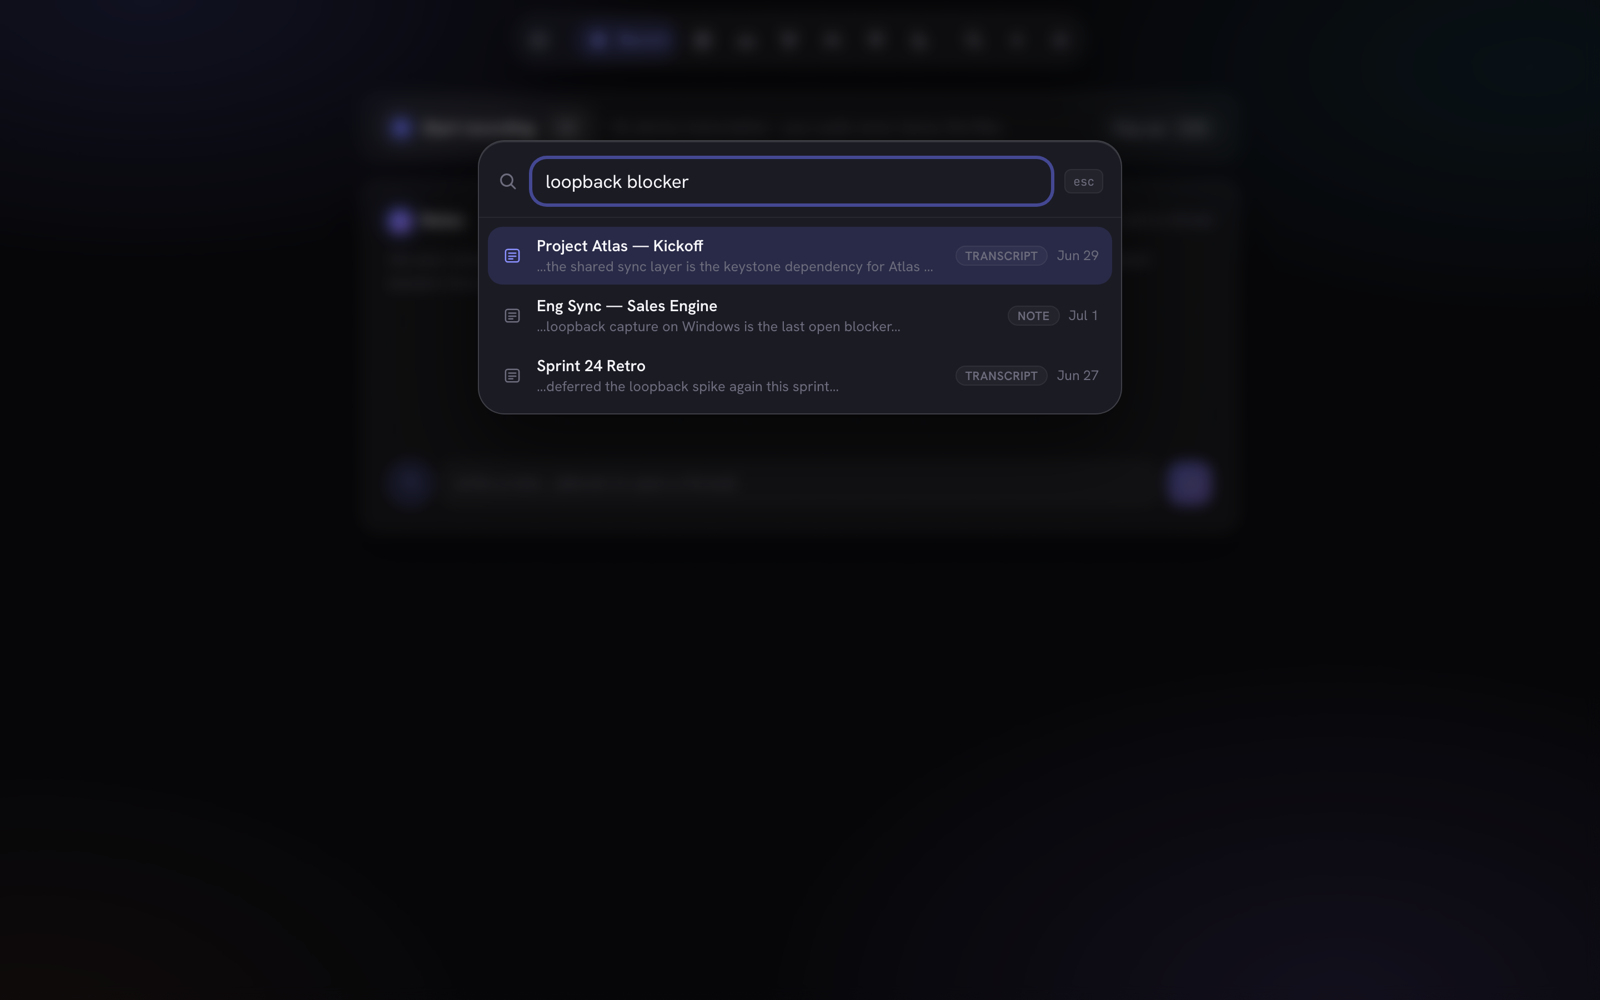
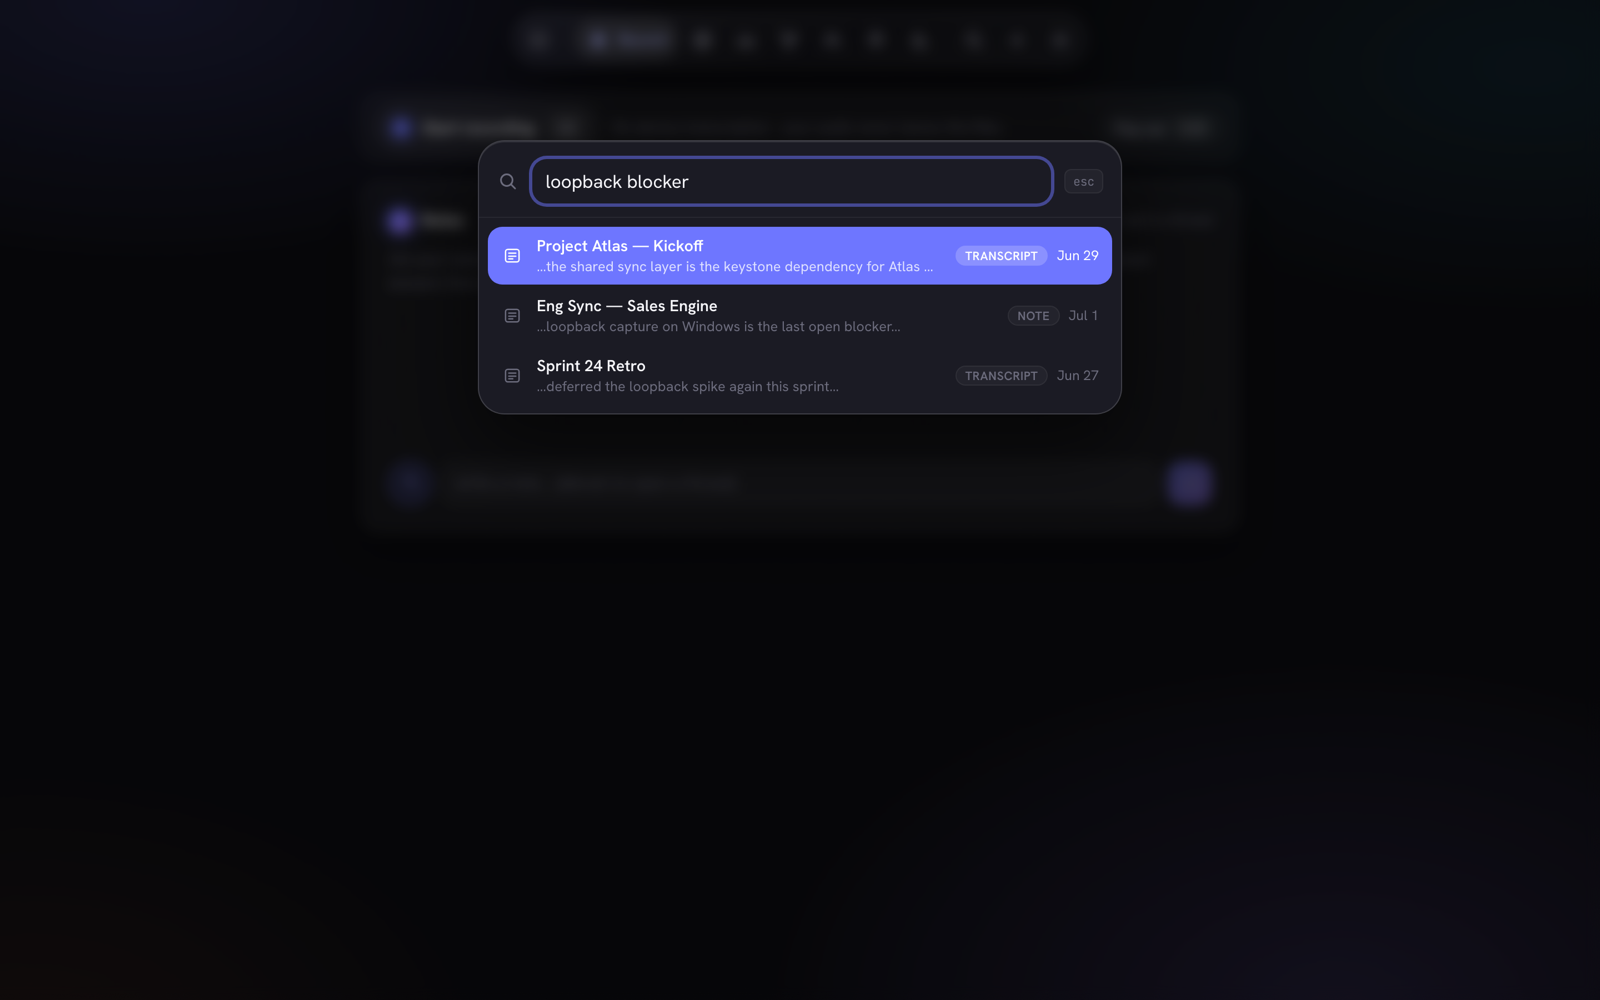
style(shell): neutral liquid-glass chrome — de-accent the active states
Real macOS Liquid Glass is neutral: dedicated --shell-glass-* tokens (gradient
fill + specular top edge + shaded bottom + 44px blur @ 180% saturation, with
light-theme milk-glass overrides). Active nav items become a neutral
glass-on-glass pill with only the glyph/label taking the accent (the Apple TV
pattern); the spotlight selection switches to the native accent-fill +
white-content pattern; the brand mark drops its purple glow. Screenshots
re-captured.

Changed region(s): [[0.2812, 0.217, 0.7188, 0.31]]

diff --git a/src/styles.css b/src/styles.css
@@ -112,6 +112,28 @@
   /* --- Layout ------------------------------------------------------------- */
   --content-max: 840px;
 
+  /* --- Shell liquid glass (PROTOTYPE — Apple TV chrome) --------------------
+     Real macOS Liquid Glass is NEUTRAL: a smoky multi-layer glass (gradient
+     fill + a specular top-edge gleam + a shaded bottom edge + heavy blur and
+     saturation). The accent never fills chrome — it colors the ACTIVE item's
+     glyph/label only; selection fills use the native accent-fill pattern. */
+  --shell-glass-bg: linear-gradient(
+    160deg,
+    rgba(255, 255, 255, 0.085) 0%,
+    rgba(255, 255, 255, 0.028) 55%,
+    rgba(255, 255, 255, 0.055) 100%
+  );
+  --shell-glass-border: rgba(255, 255, 255, 0.14);
+  --shell-glass-inner: inset 0 1px 0 rgba(255, 255, 255, 0.20),
+    inset 0 -1px 0 rgba(0, 0, 0, 0.22);
+  --shell-glass-blur: 44px;
+  --shell-glass-saturate: 180%;
+  /* The neutral "glass on glass" pill behind the active nav item. */
+  --shell-active-bg: rgba(255, 255, 255, 0.12);
+  --shell-active-text: #aeb4ff;
+  --shell-active-shadow: 0 1px 5px rgba(0, 0, 0, 0.28),
+    inset 0 1px 0 rgba(255, 255, 255, 0.18);
+
   font-family: var(--font-sans);
   color-scheme: dark;
   --aurora-opacity: 1;
@@ -154,6 +176,19 @@
   --shadow-lg: 0 28px 70px rgba(18, 18, 40, 0.16);
   --shadow-accent: 0 10px 30px rgba(110, 118, 255, 0.28);
   --aurora-opacity: 0.5;
+  --shell-glass-bg: linear-gradient(
+    160deg,
+    rgba(255, 255, 255, 0.66) 0%,
+    rgba(255, 255, 255, 0.44) 55%,
+    rgba(255, 255, 255, 0.58) 100%
+  );
+  --shell-glass-border: rgba(255, 255, 255, 0.75);
+  --shell-glass-inner: inset 0 1px 0 rgba(255, 255, 255, 0.95),
+    inset 0 -1px 0 rgba(18, 18, 40, 0.06);
+  --shell-active-bg: rgba(255, 255, 255, 0.92);
+  --shell-active-text: #4e56e4;
+  --shell-active-shadow: 0 1px 4px rgba(18, 18, 40, 0.14),
+    inset 0 1px 0 rgba(255, 255, 255, 1);
 }
 @media (prefers-color-scheme: light) {
   :root[data-theme="system"],
@@ -185,6 +220,19 @@
     --shadow-lg: 0 28px 70px rgba(18, 18, 40, 0.16);
     --shadow-accent: 0 10px 30px rgba(110, 118, 255, 0.28);
     --aurora-opacity: 0.5;
+    --shell-glass-bg: linear-gradient(
+      160deg,
+      rgba(255, 255, 255, 0.66) 0%,
+      rgba(255, 255, 255, 0.44) 55%,
+      rgba(255, 255, 255, 0.58) 100%
+    );
+    --shell-glass-border: rgba(255, 255, 255, 0.75);
+    --shell-glass-inner: inset 0 1px 0 rgba(255, 255, 255, 0.95),
+      inset 0 -1px 0 rgba(18, 18, 40, 0.06);
+    --shell-active-bg: rgba(255, 255, 255, 0.92);
+    --shell-active-text: #4e56e4;
+    --shell-active-shadow: 0 1px 4px rgba(18, 18, 40, 0.14),
+      inset 0 1px 0 rgba(255, 255, 255, 1);
   }
 }
 
@@ -602,12 +650,12 @@ app-shell {
   height: calc(100vh - 20px);
   margin: 10px 0 10px 10px;
   padding: 0 var(--space-3) var(--space-4);
-  background: var(--surface-raised);
-  -webkit-backdrop-filter: blur(var(--glass-blur)) saturate(var(--glass-saturate));
-  backdrop-filter: blur(var(--glass-blur)) saturate(var(--glass-saturate));
-  border: 1px solid var(--glass-border);
+  background: var(--shell-glass-bg);
+  -webkit-backdrop-filter: blur(var(--shell-glass-blur)) saturate(var(--shell-glass-saturate));
+  backdrop-filter: blur(var(--shell-glass-blur)) saturate(var(--shell-glass-saturate));
+  border: 1px solid var(--shell-glass-border);
   border-radius: var(--radius-xl);
-  box-shadow: var(--shadow-md), var(--glass-highlight);
+  box-shadow: var(--shadow-md), var(--shell-glass-inner);
 }
 
 /* Top strip that reserves room for the overlay traffic lights and moves the
@@ -637,9 +685,9 @@ app-shell {
   width: 30px;
   height: 30px;
   border-radius: 9px;
-  background: var(--accent-soft);
-  border: 1px solid var(--glass-border);
-  box-shadow: var(--glass-highlight), 0 4px 16px rgba(110, 118, 255, 0.28);
+  background: var(--shell-active-bg);
+  border: 1px solid var(--shell-glass-border);
+  box-shadow: var(--glass-highlight);
 }
 .brand-wave {
   display: block;
@@ -741,10 +789,13 @@ app-shell {
   color: var(--text-primary);
   box-shadow: 0 0 0 3px var(--accent-ring);
 }
+/* Active: a NEUTRAL glass-on-glass pill; only the glyph/label take the accent
+   (the Apple TV pattern — chrome never fills with the accent color). */
 .sidebar-nav a.active,
 .sidebar-settings.active {
-  color: var(--accent-hover);
-  background: var(--accent-soft);
+  color: var(--shell-active-text);
+  background: var(--shell-active-bg);
+  box-shadow: var(--shell-active-shadow);
 }
 app-nav-icon { display: contents; } /* the glyph span below is the flex child */
 .nav-icon {
@@ -816,12 +867,12 @@ app-nav-icon { display: contents; } /* the glyph span below is the flex child */
   gap: 3px;
   max-width: calc(100vw - 170px); /* clear the traffic lights on the left */
   padding: 5px;
-  background: var(--surface-raised);
-  -webkit-backdrop-filter: blur(var(--glass-blur)) saturate(var(--glass-saturate));
-  backdrop-filter: blur(var(--glass-blur)) saturate(var(--glass-saturate));
-  border: 1px solid var(--glass-border);
+  background: var(--shell-glass-bg);
+  -webkit-backdrop-filter: blur(var(--shell-glass-blur)) saturate(var(--shell-glass-saturate));
+  backdrop-filter: blur(var(--shell-glass-blur)) saturate(var(--shell-glass-saturate));
+  border: 1px solid var(--shell-glass-border);
   border-radius: var(--radius-pill);
-  box-shadow: var(--shadow-md), var(--glass-highlight);
+  box-shadow: var(--shadow-md), var(--shell-glass-inner);
 }
 .pill-item {
   display: flex;
@@ -855,8 +906,9 @@ app-nav-icon { display: contents; } /* the glyph span below is the flex child */
 /* Apple TV pattern: icons only; the ACTIVE destination expands with its label. */
 .pill-item .nav-label { display: none; }
 .pill-item.active {
-  color: var(--accent-hover);
-  background: var(--accent-soft);
+  color: var(--shell-active-text);
+  background: var(--shell-active-bg);
+  box-shadow: var(--shell-active-shadow);
   padding: 0 var(--space-3);
 }
 .pill-item.active .nav-label { display: block; flex: none; }

diff --git a/src/app/quick-search.component.ts b/src/app/quick-search.component.ts
@@ -208,11 +208,13 @@ interface HitRow {
         cursor: pointer;
         transition: background var(--transition-fast), color var(--transition-fast);
       }
-      .qs-row:hover,
-      .qs-row.selected {
-        background: var(--accent-soft);
+      /* Hover is NEUTRAL; the keyboard selection uses the native macOS
+         pattern — a flat accent fill with white content (menu/Spotlight). */
+      .qs-row:hover {
+        background: var(--surface-hover);
         color: var(--text-primary);
       }
+      .qs-row.selected { background: var(--accent); }
       .qs-row:focus-visible {
         outline: none;
         box-shadow: 0 0 0 3px var(--accent-ring);
@@ -226,8 +228,16 @@ interface HitRow {
         color: var(--text-muted);
       }
       .qs-row-icon svg { width: 18px; height: 18px; display: block; }
+      .qs-row:hover .qs-row-icon { color: var(--text-primary); }
       .qs-row.selected .qs-row-icon,
-      .qs-row:hover .qs-row-icon { color: var(--accent-hover); }
+      .qs-row.selected .qs-row-title,
+      .qs-row.selected .qs-date { color: var(--text-on-accent); }
+      .qs-row.selected .qs-row-snippet { color: rgba(255, 255, 255, 0.78); }
+      .qs-row.selected .qs-chip {
+        border-color: transparent;
+        background: rgba(255, 255, 255, 0.2);
+        color: var(--text-on-accent);
+      }
       .qs-row-main {
         flex: 1 1 auto;
         min-width: 0;
